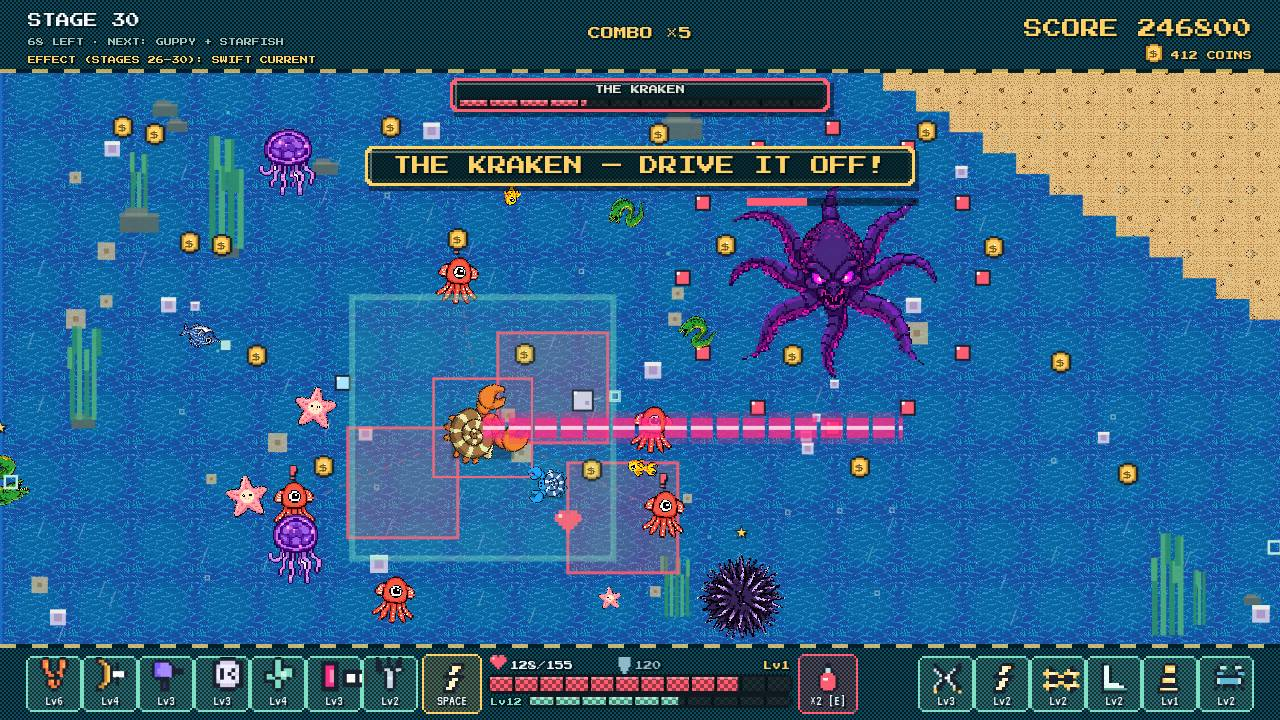
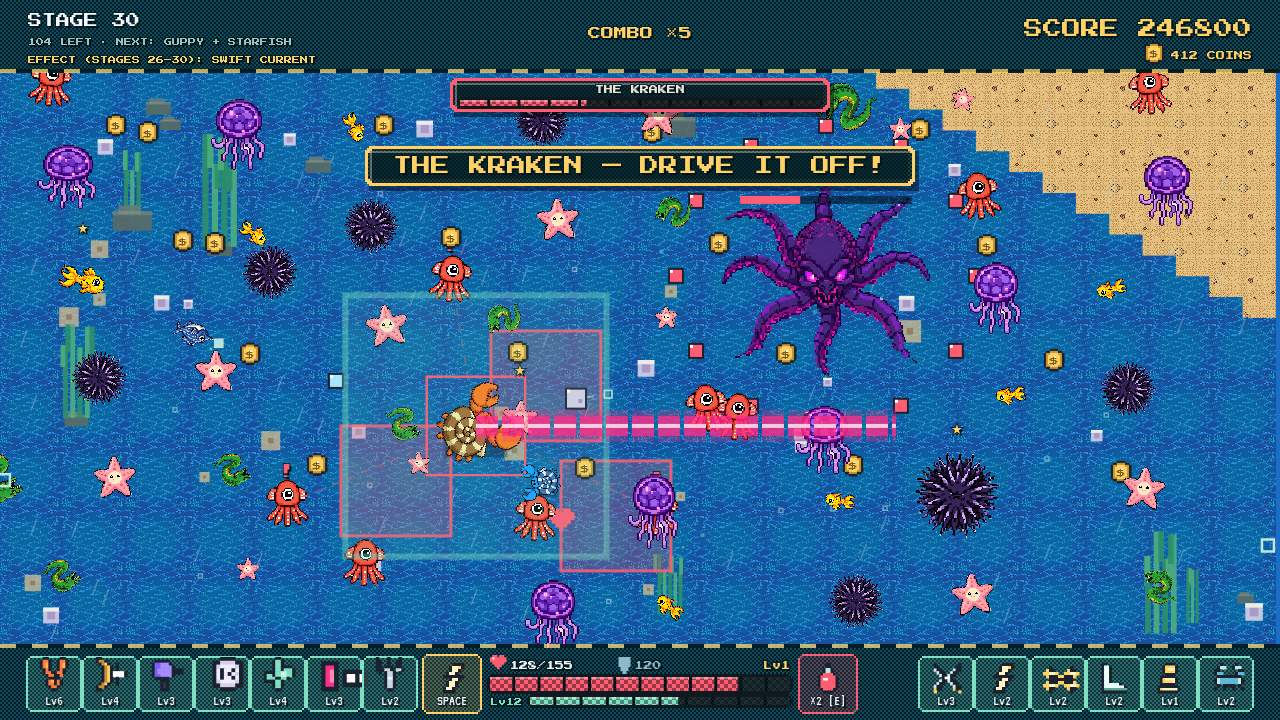
v1.2: kraken cover now a full-arena swarm - 52 enemies filling every quadrant (8x6 grid + boss push-out), boss 35% HP, COMBO x5

diff --git a/game/src/shots.js b/game/src/shots.js
@@ -150,12 +150,13 @@ export function stageShot(shot, seed, fx, audio) {
     const b = s.boss; b.hp = Math.round(b.maxHp * 0.35);
     s.combo = 18; s.comboT = 3;
     s.pet.x = 545; s.pet.y = 485;
-    const types = 'squid,jelly,guppy,urchin,starfish,eel,squid,jelly,guppy,starfish,eel,mini'.split(',');
-    for (let i = 0; i < 12; i += 1) {
-      const e = spawnEnemy(s, types[i], i === 3);
-      const a = i * 2.4, r = 170 + (i % 4) * 85;
-      e.x = Math.min(1200, Math.max(80, 480 + Math.cos(a) * r));
-      e.y = Math.min(600, Math.max(110, 430 + Math.sin(a) * r * 0.7));
+    const types = 'squid,jelly,guppy,urchin,starfish,eel,mini'.split(',');
+    for (let i = 0; i < 48; i += 1) {
+      const e = spawnEnemy(s, types[i % 7], i % 11 === 5);
+      e.x = 90 + (i % 8) * 150 + (i * 37) % 70 - 35;
+      e.y = 115 + (i / 8 | 0) * 95 + (i * 53) % 60 - 30;
+      const dx = e.x - 830, dy = e.y - 280, d = Math.hypot(dx, dy) || 1;
+      if (d < 165) { e.x = 830 + dx / d * 165; e.y = 280 + dy / d * 165; }
     }
     for (let i = 0; i < 12; i += 1) {
       const a = i * Math.PI / 6;
